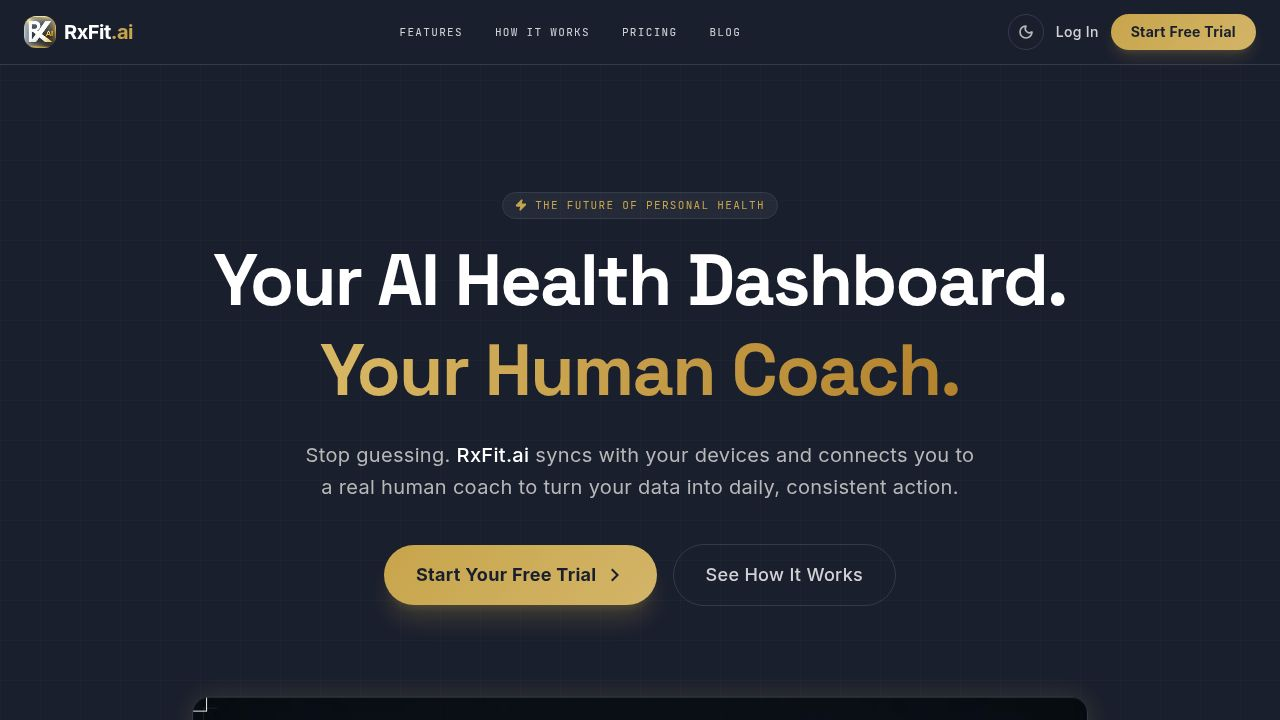
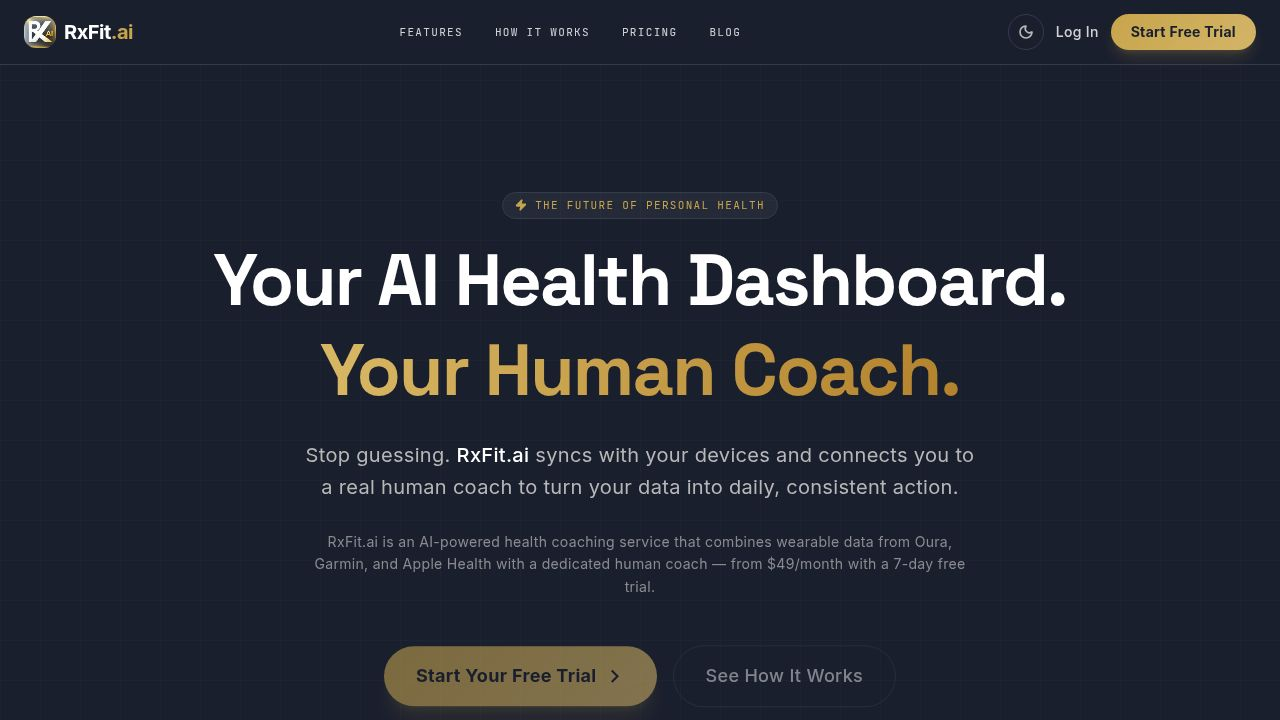
Task #62: Landing page AEO upgrade (FAQ, citable copy, pricing schema)
- Added a branded FAQ accordion section (6 buyer-intent Q&As) near the bottom
  of client/src/pages/LandingPage.tsx, styled with hud-corner/glass-card to
  match the Command-HUD brand.
- Added a citable answer-first definition sentence to the hero subcopy
  (data-testid="text-hero-definition") naming category, integrations, and
  starting price.
- Emitted FAQPage + Product/Offer JSON-LD via the existing Seo jsonLd prop so
  it lands in the prerendered head. Deliberately did NOT reuse the blog FAQ
  component to avoid duplicate FAQPage scripts (it emits its own inline
  script); accordion UI is rendered directly instead.
- Transformation tier priced as $997 one-time in JSON-LD/FAQ (matches the
  page copy and Stripe seed script), not $997/yr as the task text said.
- Verified: production build (vitest gate + prerender) succeeds; FAQPage and
  Product JSON-LD present in dist/public/index.html; seo validation passes;
  architect review passed. Updated replit.md.
- Note: client/public/opengraph.jpg shows as modified in the working tree from
  prior work; not touched by this task.

Changed region(s): [[0.125, 0.8861, 0.875, 1.0], [0.25, 0.7333, 0.75, 0.8556]]

diff --git a/client/src/pages/LandingPage.tsx b/client/src/pages/LandingPage.tsx
@@ -20,7 +20,96 @@ import heroDashboardImg from "../assets/hero-dashboard.webp";
 import { useSignupModal } from "@/components/SignupModalProvider";
 import SiteFooter from "@/components/SiteFooter";
 import ThemeToggle from "@/components/theme-toggle";
-import { Seo } from "@/lib/seo";
+import { Seo, SITE_URL } from "@/lib/seo";
+import {
+  Accordion,
+  AccordionContent,
+  AccordionItem,
+  AccordionTrigger,
+} from "@/components/ui/accordion";
+
+const FAQ_ITEMS = [
+  {
+    q: "What is RxFit.ai?",
+    a: "RxFit.ai is an AI-powered health coaching service that combines wearable data from devices like Oura, Garmin, and Apple Health with a dedicated human accountability coach. The AI dashboard analyzes your biometrics daily, and your coach turns that data into a specific plan and keeps you consistent.",
+  },
+  {
+    q: "How is RxFit different from a fitness app or an AI chatbot?",
+    a: "Apps and chatbots give generic advice and are easy to ignore. RxFit assigns you a real human coach who sees your actual sleep, recovery, and training data and adjusts your workouts and nutrition daily. The AI does the analysis; the human provides the judgment and accountability.",
+  },
+  {
+    q: "Which wearables and apps does RxFit work with?",
+    a: "RxFit syncs with all major wearables and health apps, including Oura, Garmin, Apple Health, Strava, and SnapCalorie. Your data is combined into a single dashboard with a daily readiness score.",
+  },
+  {
+    q: "How much does RxFit.ai cost?",
+    a: "RxFit has three plans: The Kickstart at $49/month with a 7-day free trial (AI dashboard, device sync, weekly coach check-in), The Committed at $490/year paid upfront (saves $98 and adds priority coach access), and The Transformation at $997 one-time (1-on-1 deep-dive coaching and an executive wellness audit).",
+  },
+  {
+    q: "Is there a free trial, and can I cancel anytime?",
+    a: "Yes. The Kickstart plan includes a 7-day free trial, and you can cancel your subscription at any time from the billing portal — no long-term contract or cancellation fee.",
+  },
+  {
+    q: "Who is RxFit.ai for?",
+    a: "RxFit is built for busy professionals and high-performers who already track their health data but struggle to turn it into consistent daily action. If you own a wearable and want expert direction plus real accountability without hiring a $500/month personal trainer, RxFit is designed for you.",
+  },
+];
+
+const PRICING_JSONLD = {
+  "@context": "https://schema.org",
+  "@type": "Product",
+  name: "RxFit.ai Health Coaching",
+  description:
+    "AI health dashboard plus a dedicated human accountability coach. Syncs with Oura, Garmin, Apple Health, Strava, and more.",
+  brand: { "@type": "Brand", name: "RxFit.ai" },
+  url: `${SITE_URL}/#pricing`,
+  image: `${SITE_URL}/opengraph.jpg`,
+  offers: [
+    {
+      "@type": "Offer",
+      name: "The Kickstart",
+      description: "AI dashboard access, device sync for all brands, and a weekly coach check-in. Includes a 7-day free trial.",
+      price: "49.00",
+      priceCurrency: "USD",
+      url: `${SITE_URL}/#pricing`,
+      availability: "https://schema.org/InStock",
+      priceSpecification: {
+        "@type": "UnitPriceSpecification",
+        price: "49.00",
+        priceCurrency: "USD",
+        billingDuration: 1,
+        billingIncrement: 1,
+        unitCode: "MON",
+      },
+    },
+    {
+      "@type": "Offer",
+      name: "The Committed",
+      description: "Everything in Kickstart plus priority coach access, paid annually upfront — saves $98 per year.",
+      price: "490.00",
+      priceCurrency: "USD",
+      url: `${SITE_URL}/#pricing`,
+      availability: "https://schema.org/InStock",
+      priceSpecification: {
+        "@type": "UnitPriceSpecification",
+        price: "490.00",
+        priceCurrency: "USD",
+        billingDuration: 1,
+        billingIncrement: 1,
+        unitCode: "ANN",
+      },
+    },
+    {
+      "@type": "Offer",
+      name: "The Transformation",
+      description: "One-time VIP program: 1-on-1 deep-dive strategy, executive wellness audit, daily live coaching, lifetime community access.",
+      price: "997.00",
+      priceCurrency: "USD",
+      url: `${SITE_URL}/#pricing`,
+      availability: "https://schema.org/InStock",
+    },
+  ],
+};
 
 const bottomLeftNotifications = [
   {
@@ -144,6 +233,18 @@ export default function LandingPage() {
         description="Turn your wearable data into daily, consistent action. RxFit.ai pairs an AI health dashboard with a real human accountability coach."
         canonicalPath="/"
         image="/opengraph.jpg"
+        jsonLd={[
+          PRICING_JSONLD,
+          {
+            "@context": "https://schema.org",
+            "@type": "FAQPage",
+            mainEntity: FAQ_ITEMS.map((it) => ({
+              "@type": "Question",
+              name: it.q,
+              acceptedAnswer: { "@type": "Answer", text: it.a },
+            })),
+          },
+        ]}
       />
 
       {/* Sticky Navbar */}
@@ -207,6 +308,10 @@ export default function LandingPage() {
             
             <motion.p variants={fadeIn} className="text-xl text-muted-foreground max-w-2xl mx-auto leading-relaxed">
               Stop guessing. <span className="text-foreground font-medium">RxFit.ai</span> syncs with your devices and connects you to a real human coach to turn your data into daily, consistent action.
+            </motion.p>
+
+            <motion.p variants={fadeIn} className="text-sm text-muted-foreground/80 max-w-2xl mx-auto leading-relaxed" data-testid="text-hero-definition">
+              RxFit.ai is an AI-powered health coaching service that combines wearable data from Oura, Garmin, and Apple Health with a dedicated human coach — from $49/month with a 7-day free trial.
             </motion.p>
             
             <motion.div variants={fadeIn} className="flex flex-col sm:flex-row items-center justify-center gap-4 pt-4">
@@ -561,6 +666,31 @@ export default function LandingPage() {
                  </div>
               </div>
            </div>
+        </div>
+      </section>
+
+      {/* FAQ Section */}
+      <section id="faq" className="py-24 relative">
+        <div className="absolute top-1/2 left-1/2 -translate-x-1/2 -translate-y-1/2 w-full max-w-2xl h-[300px] bg-primary/5 blur-[100px] rounded-full -z-10" />
+        <div className="container mx-auto px-6 max-w-3xl">
+          <div className="text-center mb-12">
+            <div className="hud-label text-primary mb-3">Common Questions</div>
+            <h2 className="text-3xl md:text-5xl font-bold text-foreground">Frequently Asked Questions</h2>
+          </div>
+          <Accordion type="single" collapsible className="space-y-3" data-testid="landing-faq">
+            {FAQ_ITEMS.map((it, i) => (
+              <AccordionItem
+                key={i}
+                value={`faq-${i}`}
+                className="hud-corner glass-card rounded-xl border-none px-5"
+              >
+                <AccordionTrigger className="text-left text-foreground hover:no-underline" data-testid={`landing-faq-question-${i}`}>
+                  {it.q}
+                </AccordionTrigger>
+                <AccordionContent className="text-foreground/80 leading-relaxed">{it.a}</AccordionContent>
+              </AccordionItem>
+            ))}
+          </Accordion>
         </div>
       </section>
 

diff --git a/replit.md b/replit.md
@@ -10,7 +10,7 @@ RxFit.ai is a HealthTech SaaS landing page designed for lead capture, conversion
 - **Typography:** Inter (body, self-hosted), Space Grotesk (display/headings), JetBrains Mono (HUD command labels).
 
 ## Project Architecture
-- `client/src/pages/LandingPage.tsx` — Main landing page (pricing buttons open the shared signup modal via `useSignupModal`)
+- `client/src/pages/LandingPage.tsx` — Main landing page (pricing buttons open the shared signup modal via `useSignupModal`); AEO surfaces: citable hero definition sentence, FAQ accordion section (`#faq`), and FAQPage + Product/Offer JSON-LD emitted via the `Seo` `jsonLd` prop (prerendered into the head)
 - `client/src/pages/SuccessPage.tsx` — Post-payment success page with link to app.rxfit.ai
 - `client/src/pages/BlogIndex.tsx` — Blog index: pillar filter chips + responsive post-card grid
 - `client/src/pages/BlogPost.tsx` — Blog post template: breadcrumb, byline, hero, MDX content, sticky TOC, author bio, related posts, CRO surfaces
